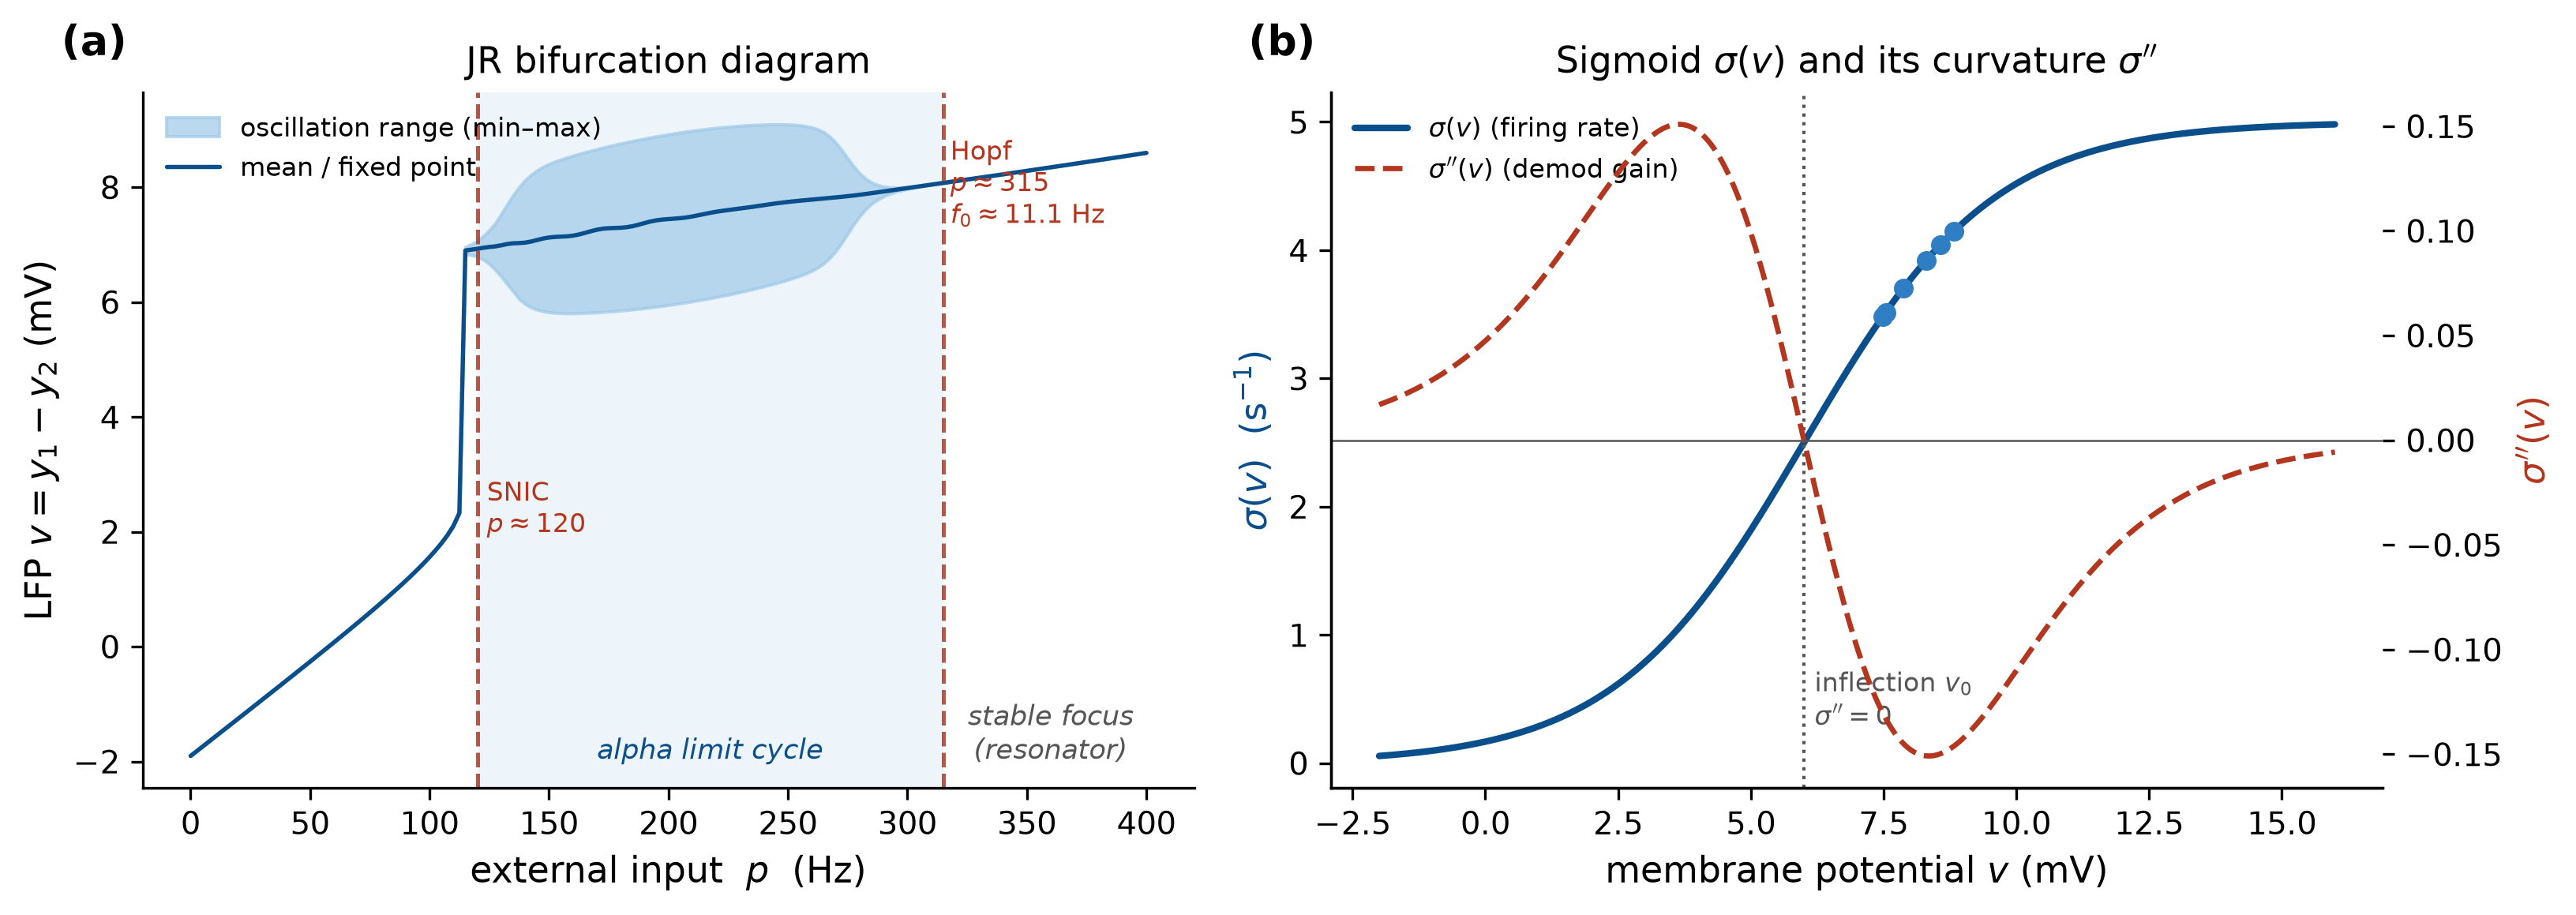
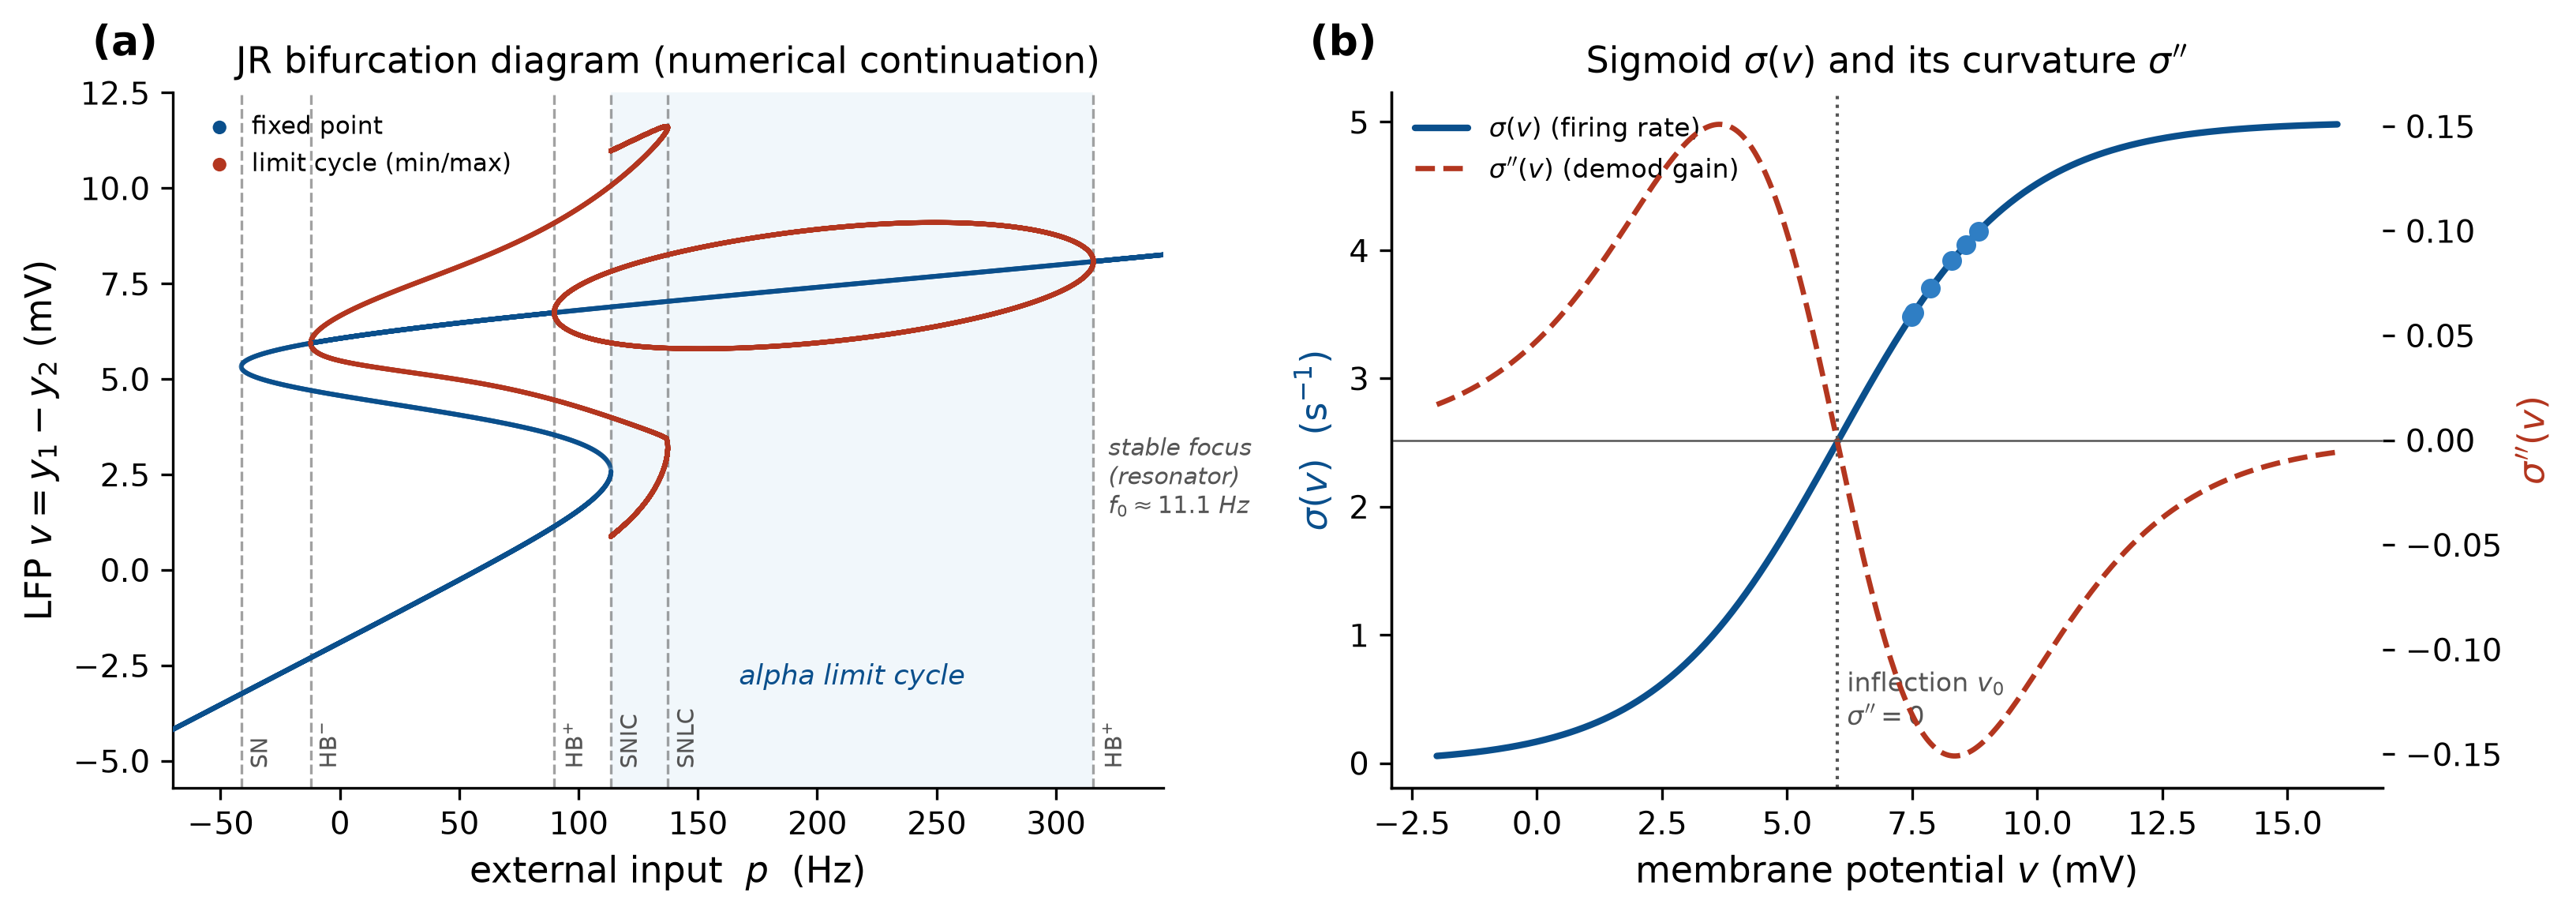
Fig 2(a): replace with Raul's full JR numerical-continuation bifurcation diagram
Raul de Palma (co-author) provided AUTO continuation output for Jansen-Rit (jrnmm_plot/:
fp/lc1/lc2 pickles + bifurcation CSVs). Replaced the hand-shaded oscillation-envelope panel
2(a) with the real continuation:
- convert_to_npz.py -> committed code/jr_bifurcation.npz (numpy-only; pandas only for the
  one-time conversion, not a runtime dep).
- figures_v2.py panel (a): fixed-point branch (blue) + limit-cycle min/max (red), solid=stable
  / faded=unstable, all six codim-1 bifurcations marked (SN, HB-, HB+, SNIC 113.6, SNLC, HB+
  315.7). Sign v=y1-y2 (matches panel b). Alpha-cycle region shaded; stable-focus resonator
  annotated. Panel (b) unchanged.
- Caption rewritten (continuation; stable/unstable; bifurcations). Methods now credits the
  continuation for the full diagram and keeps the Jacobian-eigenvalue method as independent
  Hopf confirmation; fixed 'p<315 => cycle' -> 'between SNIC and Hopf'. SNIC ~115 -> ~114
  (continuation 113.6). Raw data + convert script committed for provenance; README updated.
Build clean: 34 pp, 0 undefined.

diff --git a/code/jrnmm_plot/plotting.py b/code/jrnmm_plot/plotting.py
@@ -1,0 +1,57 @@
+import numpy as np
+import pandas as pd
+import matplotlib.pyplot as plt
+from matplotlib import colors as mcolors
+
+def blend_hex_with_bg(hex_color, alpha, bg_color="#FFFFFF"):
+    fg_rgb = np.array(mcolors.to_rgb(hex_color))
+    bg_rgb = np.array(mcolors.to_rgb(bg_color))
+    blended_rgb = alpha * fg_rgb + (1 - alpha) * bg_rgb
+    return mcolors.to_hex(blended_rgb)
+
+
+def colors_from_pt(pt_array, hex_color):
+    """Same stability colouring as your original script: solid if PT<0, faded otherwise."""
+    return np.where(pt_array < 0, hex_color, blend_hex_with_bg(hex_color, 0.7))
+
+
+def plot_from_saved(fp_file='fp.pkl', lc1_file='lc1.pkl', lc2_file='lc2.pkl',
+                     bfp_file='bfp.csv', blc1_file='blc1.csv',
+                     out_png='jr_bif_reloaded.png'):
+    fp_df = pd.read_pickle(fp_file)
+    lc1_df = pd.read_pickle(lc1_file)
+    lc2_df = pd.read_pickle(lc2_file)
+    bfp_df = pd.read_csv(bfp_file)
+    blc1_df = pd.read_csv(blc1_file)
+
+    c_fp = colors_from_pt(fp_df['PT'].values, "#808080")
+    c_lc1 = colors_from_pt(lc1_df['PT'].values, "#E2725B")
+    c_lc2 = colors_from_pt(lc2_df['PT'].values, "#E2725B")
+
+    plt.rcParams.update({'font.size': 12, 'figure.autolayout': True})
+    fig, axs = plt.subplots(1, 1, figsize=(6, 6), dpi=300, constrained_layout=True)
+
+    axs.scatter(fp_df['p'], fp_df['y1'] - fp_df['y2'], c=c_fp, s=1.5)
+    axs.scatter(lc1_df['p'], lc1_df['y_min'], c=c_lc1, s=1.5)
+    axs.scatter(lc1_df['p'], lc1_df['y_max'], c=c_lc1, s=1.5)
+    axs.scatter(lc2_df['p'], lc2_df['y_min'], c=c_lc2, s=1.5)
+    axs.scatter(lc2_df['p'], lc2_df['y_max'], c=c_lc2, s=1.5)
+
+    for _, row in bfp_df.iterrows():
+        axs.axvline(row['value'], color='black', ls='--', alpha=0.7)
+        axs.text(row['value'] + 2.7, -5.0, row['label'], rotation=90)
+    for _, row in blc1_df.iterrows():
+        axs.axvline(row['value'], color='black', ls='--', alpha=0.7)
+        axs.text(row['value'] + 1.5, -5.0, row['label'], rotation=90)
+
+    axs.set_xlim(-80, 350.0)
+    axs.set_ylim(-5.7, 12.45)
+    axs.set_xlabel(r'$p$')
+    axs.set_ylabel(r'$y2-y1$')
+    fig.savefig(out_png, bbox_inches='tight')
+    plt.show()
+    return fig, axs
+
+
+if __name__ == '__main__':
+    plot_from_saved()

diff --git a/code/figures_v2.py b/code/figures_v2.py
@@ -58,24 +58,34 @@ def concept():
 # ============================================ FIG 2: bifurcation + sigmoid/sigma''
 def bifurcation_sigmoid():
     fig, ax = plt.subplots(1, 2, figsize=(11, 4.0))
-    pb=d["p_bif"]; vmin=d["vmin"]; vmax=d["vmax"]; vmean=d["vmean"]
-    ax[0].fill_between(pb, vmin, vmax, color=NEL, alpha=0.7, label="oscillation range (min–max)")
-    ax[0].plot(pb, vmean, color=NEB, lw=1.3, label="mean / fixed point")
-    # mark only the two real boundaries: the SNIC (cycle onset) and the Hopf;
-    # shade/label the alpha-cycle band between them. (Stray operating-point lines removed.)
-    osc = (vmax - vmin) > 0.2
-    p_snic = float(pb[osc][0]) if osc.any() else 115.0
-    y0, y1 = ax[0].get_ylim()
-    ax[0].axvspan(p_snic, 315, color=NEL, alpha=0.18, lw=0)
-    for pc in (p_snic, 315):
-        ax[0].axvline(pc, color=NER, ls="--", lw=1.2, alpha=0.85)
-    ax[0].text(p_snic+4, y0+(y1-y0)*0.40, f"SNIC\n$p\\approx{p_snic:.0f}$", color=NER, fontsize=8, ha="left", va="center")
-    ax[0].text(318, y1*0.92, "Hopf\n$p\\approx315$\n$f_0\\approx11.1$ Hz", color=NER, fontsize=8, va="top")
-    ax[0].text((p_snic+315)/2, y0+0.5, "alpha limit cycle", color=NEB, fontsize=8.5, ha="center", style="italic")
-    ax[0].text(360, y0+0.5, "stable focus\n(resonator)", color=GR, fontsize=8.5, ha="center", style="italic")
+    # --- (a) full Jansen-Rit continuation (AUTO), data from Raul de Palma ---
+    # fixed-point and limit-cycle branches with codim-1 bifurcations; solid = stable,
+    # faded = unstable. Sign convention v = y1 - y2 (paper LFP), as in panel (b).
+    b = np.load(os.path.join(os.path.dirname(os.path.abspath(__file__)), "jr_bifurcation.npz"),
+                allow_pickle=True)
+    def _branch(p, y, stable, color, label=None):
+        ax[0].scatter(p[stable],  y[stable],  s=2.2, color=color, edgecolors="none", zorder=3, label=label)
+        ax[0].scatter(p[~stable], y[~stable], s=2.2, color=color, edgecolors="none", zorder=2, alpha=0.28)
+    ax[0].axvspan(113.6, 315.7, color=NEL, alpha=0.14, lw=0, zorder=0)   # alpha-cycle region
+    _branch(b["fp_p"], b["fp_v"], b["fp_stable"], NEB, "fixed point")
+    lc_lab = "limit cycle (min/max)"
+    for pre in ("lc1", "lc2"):
+        st = b[f"{pre}_stable"]
+        for ext in ("min", "max"):
+            _branch(b[f"{pre}_p"], b[f"{pre}_{ext}"], st, NER, lc_lab); lc_lab = None
+    for lab, val in zip(b["bif_label"], b["bif_value"]):    # bifurcation markers + rotated labels
+        if not (-70 < val < 345):
+            continue
+        ax[0].axvline(val, color=GR, ls="--", lw=0.8, alpha=0.55, zorder=1)
+        ax[0].text(val + 3.5, -5.2, str(lab), rotation=90, fontsize=7, va="bottom", color=GR)
+    ax[0].text((113.6 + 315.7) / 2, -3.0, "alpha limit cycle", color=NEB, fontsize=8.3,
+               ha="center", style="italic")
+    ax[0].text(322, 2.4, "stable focus\n(resonator)\n$f_0\\approx11.1$ Hz", color=GR,
+               fontsize=7.3, ha="left", va="center", style="italic")
+    ax[0].set_xlim(-70, 345); ax[0].set_ylim(-5.7, 12.5)
     ax[0].set_xlabel("external input  $p$  (Hz)"); ax[0].set_ylabel("LFP $v=y_1-y_2$ (mV)")
-    ax[0].set_title("JR bifurcation diagram")
-    ax[0].legend(loc="upper left", fontsize=8)
+    ax[0].set_title("JR bifurcation diagram (numerical continuation)")
+    ax[0].legend(loc="upper left", fontsize=7.5, markerscale=2.8, handletextpad=0.3)
     figstyle.panel(ax[0], "a")
 
     vv=np.linspace(-2,16,400)

diff --git a/TN0484_envelope_demodulation.tex b/TN0484_envelope_demodulation.tex
@@ -516,25 +516,31 @@ $3$--$20$~s measurement window; the resonance sweeps use a $20$~s window so the
 lock-in averages the limit-cycle beating on the entrainment side. Parameter
 sweeps are vectorized: the state is an
 $(N,6)$ array advanced simultaneously for all $N$ parameter combinations, so a full
-resonance map runs in seconds. The bifurcation structure (Fig.~\ref{fig:bif}) is
-located by solving, for each $p$, the self-consistent scalar equation for the
-resting fixed point $v=y_1-y_2$, forming the $6\times6$ Jacobian numerically, and
-diagonalizing it; the supercritical Hopf is the $p$ at which the leading eigenvalue
-pair crosses the imaginary axis with $\mathrm{Im}\,\lambda$ in the alpha band. This
-gives $p\approx315$~Hz and $f_0=\mathrm{Im}\,\lambda/2\pi\approx11.1$~Hz, in line
-with the JR bifurcation analysis of \cite{grimbert2006}; for $p>315$ the fixed
-point is a stable focus (resonator) and for $p<315$ an alpha limit cycle.
+resonance map runs in seconds. The full bifurcation diagram (Fig.~\ref{fig:bif}) is computed by numerical continuation of
+the fixed-point and limit-cycle branches. We independently locate the operating
+supercritical Hopf by solving, for each $p$, the self-consistent scalar equation for the
+resting fixed point $v=y_1-y_2$, forming the $6\times6$ Jacobian numerically and
+diagonalizing it: the Hopf is the $p$ at which the leading eigenvalue pair crosses the
+imaginary axis with $\mathrm{Im}\,\lambda$ in the alpha band. This gives $p\approx315$~Hz
+and $f_0=\mathrm{Im}\,\lambda/2\pi\approx11.1$~Hz---consistent with the continuation and
+with the JR bifurcation analysis of \cite{grimbert2006}. For $p>315$ the fixed point is a
+stable focus (resonator); between the SNIC ($p\!\approx\!114$) and the Hopf the column
+free-runs on the alpha limit cycle.
 
 \begin{figure}[t!]
 \centering
 \includegraphics[width=\textwidth]{fig_bifurcation_sigmoid.pdf}
-\caption{\textbf{The Jansen--Rit operating regime: bifurcation and sigmoid curvature.} \emph{Left:} JR bifurcation diagram---LFP
-range vs.\ external input $p$. A limit cycle (alpha) exists between a saddle-node-on-invariant-circle (SNIC)
-bifurcation near $p\!\approx\!115$ and the supercritical Hopf at $p\!\approx\!315$; above the Hopf
-the fixed point is a stable focus, $f_0\!\approx\!11.1$~Hz. \emph{Right:} the
-sigmoid $\Sig(v)$ and its curvature $\Sig''(v)$, which sets the demodulation gain
-and vanishes at the inflection $v_0$. Dots mark the operating points reached by
-the closed-loop model for the $p$ values used here.}
+\caption{\textbf{The Jansen--Rit operating regime: bifurcation and sigmoid curvature.}
+\emph{Left:} JR bifurcation diagram from numerical continuation---the LFP $v=y_1-y_2$ along
+the fixed-point branch (blue) and the min/max of the limit-cycle branches (red) vs.\
+external input $p$, with \emph{solid} stable and \emph{faded} unstable. The alpha limit
+cycle (shaded) is bounded by a saddle-node-on-invariant-circle (SNIC, $p\!\approx\!114$)
+and the supercritical Hopf ($p\!\approx\!315$, $f_0\!\approx\!11.1$~Hz); beyond the Hopf the
+fixed point is a stable focus---the near-critical resonator regime used throughout. Further
+codim-1 points are marked (saddle-node SN, Hopf HB$^{\pm}$, saddle-node of limit cycles
+SNLC). \emph{Right:} the sigmoid $\Sig(v)$ and its curvature $\Sig''(v)$, which sets the
+demodulation gain and vanishes at the inflection $v_0$. Dots mark the operating points
+reached by the closed-loop model for the $p$ values used here.}
 \label{fig:bif}
 \end{figure}
 
@@ -715,7 +721,7 @@ modulation of a persisting rhythm \emph{gating}, reporting the metric appropriat
 entrainment).
 
 Concretely for the JR entrainment analysis (Fig.~\ref{fig:entrain}): we place the column
-on the limit-cycle side---input $p$ between the SNIC ($p\!\approx\!115$) and the Hopf
+on the limit-cycle side---input $p$ between the SNIC ($p\!\approx\!114$) and the Hopf
 ($p\!\approx\!315$), where it free-runs at $f_0(p)$---and drive it with
 $s(t)=\varepsilon\cos\Omega t$. The Arnold tongue (Fig.~\ref{fig:entrain}a) is the
 $\Delta f$ lock-in over the $(\Delta f,\varepsilon)$ grid at fixed $p$ with the

diff --git a/code/jrnmm_plot/convert_to_npz.py b/code/jrnmm_plot/convert_to_npz.py
@@ -1,0 +1,30 @@
+"""Provenance: convert Raul de Palma's Jansen-Rit continuation output (AUTO/pandas
+pickles + CSVs) into the committed numpy file code/jr_bifurcation.npz that figures_v2.py
+reads. Run once; needs pandas (NOT a runtime dependency of the figure pipeline).
+
+Inputs (this folder):  fp.pkl (fixed points: p,y1,y2,PT), lc1.pkl, lc2.pkl (limit cycles:
+p,y_min,y_max,PT), bfp.csv, blc1.csv (bifurcation labels+values). Stability: PT<0 = stable.
+Sign convention written out is the paper LFP v = y1 - y2.
+"""
+import os
+import numpy as np
+import pandas as pd
+
+HERE = os.path.dirname(os.path.abspath(__file__))
+fp = pd.read_pickle(os.path.join(HERE, "fp.pkl"))
+lc1 = pd.read_pickle(os.path.join(HERE, "lc1.pkl"))
+lc2 = pd.read_pickle(os.path.join(HERE, "lc2.pkl"))
+bfp = pd.read_csv(os.path.join(HERE, "bfp.csv"))
+blc = pd.read_csv(os.path.join(HERE, "blc1.csv"))
+
+out = dict(
+    fp_p=fp["p"].values, fp_v=(fp["y1"] - fp["y2"]).values, fp_stable=(fp["PT"].values < 0),
+    lc1_p=lc1["p"].values, lc1_min=lc1["y_min"].values, lc1_max=lc1["y_max"].values,
+    lc1_stable=(lc1["PT"].values < 0),
+    lc2_p=lc2["p"].values, lc2_min=lc2["y_min"].values, lc2_max=lc2["y_max"].values,
+    lc2_stable=(lc2["PT"].values < 0),
+    bif_label=np.array(list(bfp["label"]) + list(blc["label"])),
+    bif_value=np.array(list(bfp["value"]) + list(blc["value"]), float),
+)
+np.savez(os.path.join(HERE, "..", "jr_bifurcation.npz"), **out)
+print("wrote code/jr_bifurcation.npz")

diff --git a/docs/current_state.md b/docs/current_state.md
@@ -1,6 +1,24 @@
 # current_state — NMM envelope-demodulation / resonance demo
 
-## v1.57 — Clarify what the transfer functions represent (Kaiti's comment) (latest)
+## v1.58 — Fig 2(a): replaced with Raul's full JR numerical-continuation bifurcation diagram (latest)
+Raul de Palma (co-author) provided AUTO continuation output for the Jansen-Rit model
+(code/jrnmm_plot/: fp/lc1/lc2 pandas pickles + bfp/blc csvs). Replaced the hand-shaded
+oscillation-envelope panel Fig 2(a) with the real continuation:
+- code/jrnmm_plot/convert_to_npz.py converts the pkl/csv -> committed code/jr_bifurcation.npz
+  (numpy-only; pandas needed ONLY for this one-time conversion, NOT a runtime dep).
+- figures_v2.py bifurcation_sigmoid() panel (a) rewritten: fixed-point branch (blue) + limit-cycle
+  min/max branches (red), solid=stable / faded=unstable (PT<0), all six codim-1 bifurcations marked
+  (SN -41, HB- -12, HB+ 90, SNIC 113.6, SNLC 137, HB+ 315.7). Sign v=y1-y2 (paper LFP, matches panel b;
+  Raul's script mislabeled the axis y2-y1 but plots y1-y2). Alpha-cycle region shaded; stable-focus
+  resonator annotated. Panel (b) sigmoid unchanged.
+- Text: Fig 2 caption rewritten (continuation; stable/unstable; bifurcations). Methods (sec around
+  l.519) now credits continuation for the full diagram + keeps the Jacobian-eigenvalue method as
+  independent Hopf confirmation; fixed "p<315 => cycle" -> "between SNIC and Hopf". SNIC ~115 -> ~114
+  (continuation gives 113.6) in caption + entrainment methods. Hopf kept ~315 (315.7).
+- jrnmm_plot/ raw data + convert script committed for provenance; README figure-table dep updated.
+Build clean: 34 pp, 0 undefined.
+
+## v1.57 — Clarify what the transfer functions represent (Kaiti's comment)
 Added a short consolidating paragraph after the model definitions ("What the transfer
 functions represent"): the demodulating object is a POPULATION input-output map, not a
 passive somatic membrane element -- the JR/LaNMM sigmoid (effective transfer, PSP in /

diff --git a/README.md b/README.md
@@ -96,7 +96,7 @@ to `figures/` and runs from committed inputs; **gap** = no working generator.
 | figure | script | data dep. | scipy | status |
 |---|---|---|---|---|
 | fig_concept | `figures_v2.py` | analyses_v2.npz† | – | OK |
-| fig_bifurcation_sigmoid | `figures_v2.py` | analyses_v2.npz† | – | OK |
+| fig_bifurcation_sigmoid | `figures_v2.py` | analyses_v2.npz†, jr_bifurcation.npz‡ | – | OK |
 | fig_resonance_map | `figures_v2.py` | analyses_v2.npz† | – | OK |
 | fig_carrier_independence | `figures_v2.py` | analyses_v2.npz† | – | OK |
 | fig_operating_point | `figures_v2.py` | analyses_v2.npz† | – | OK |